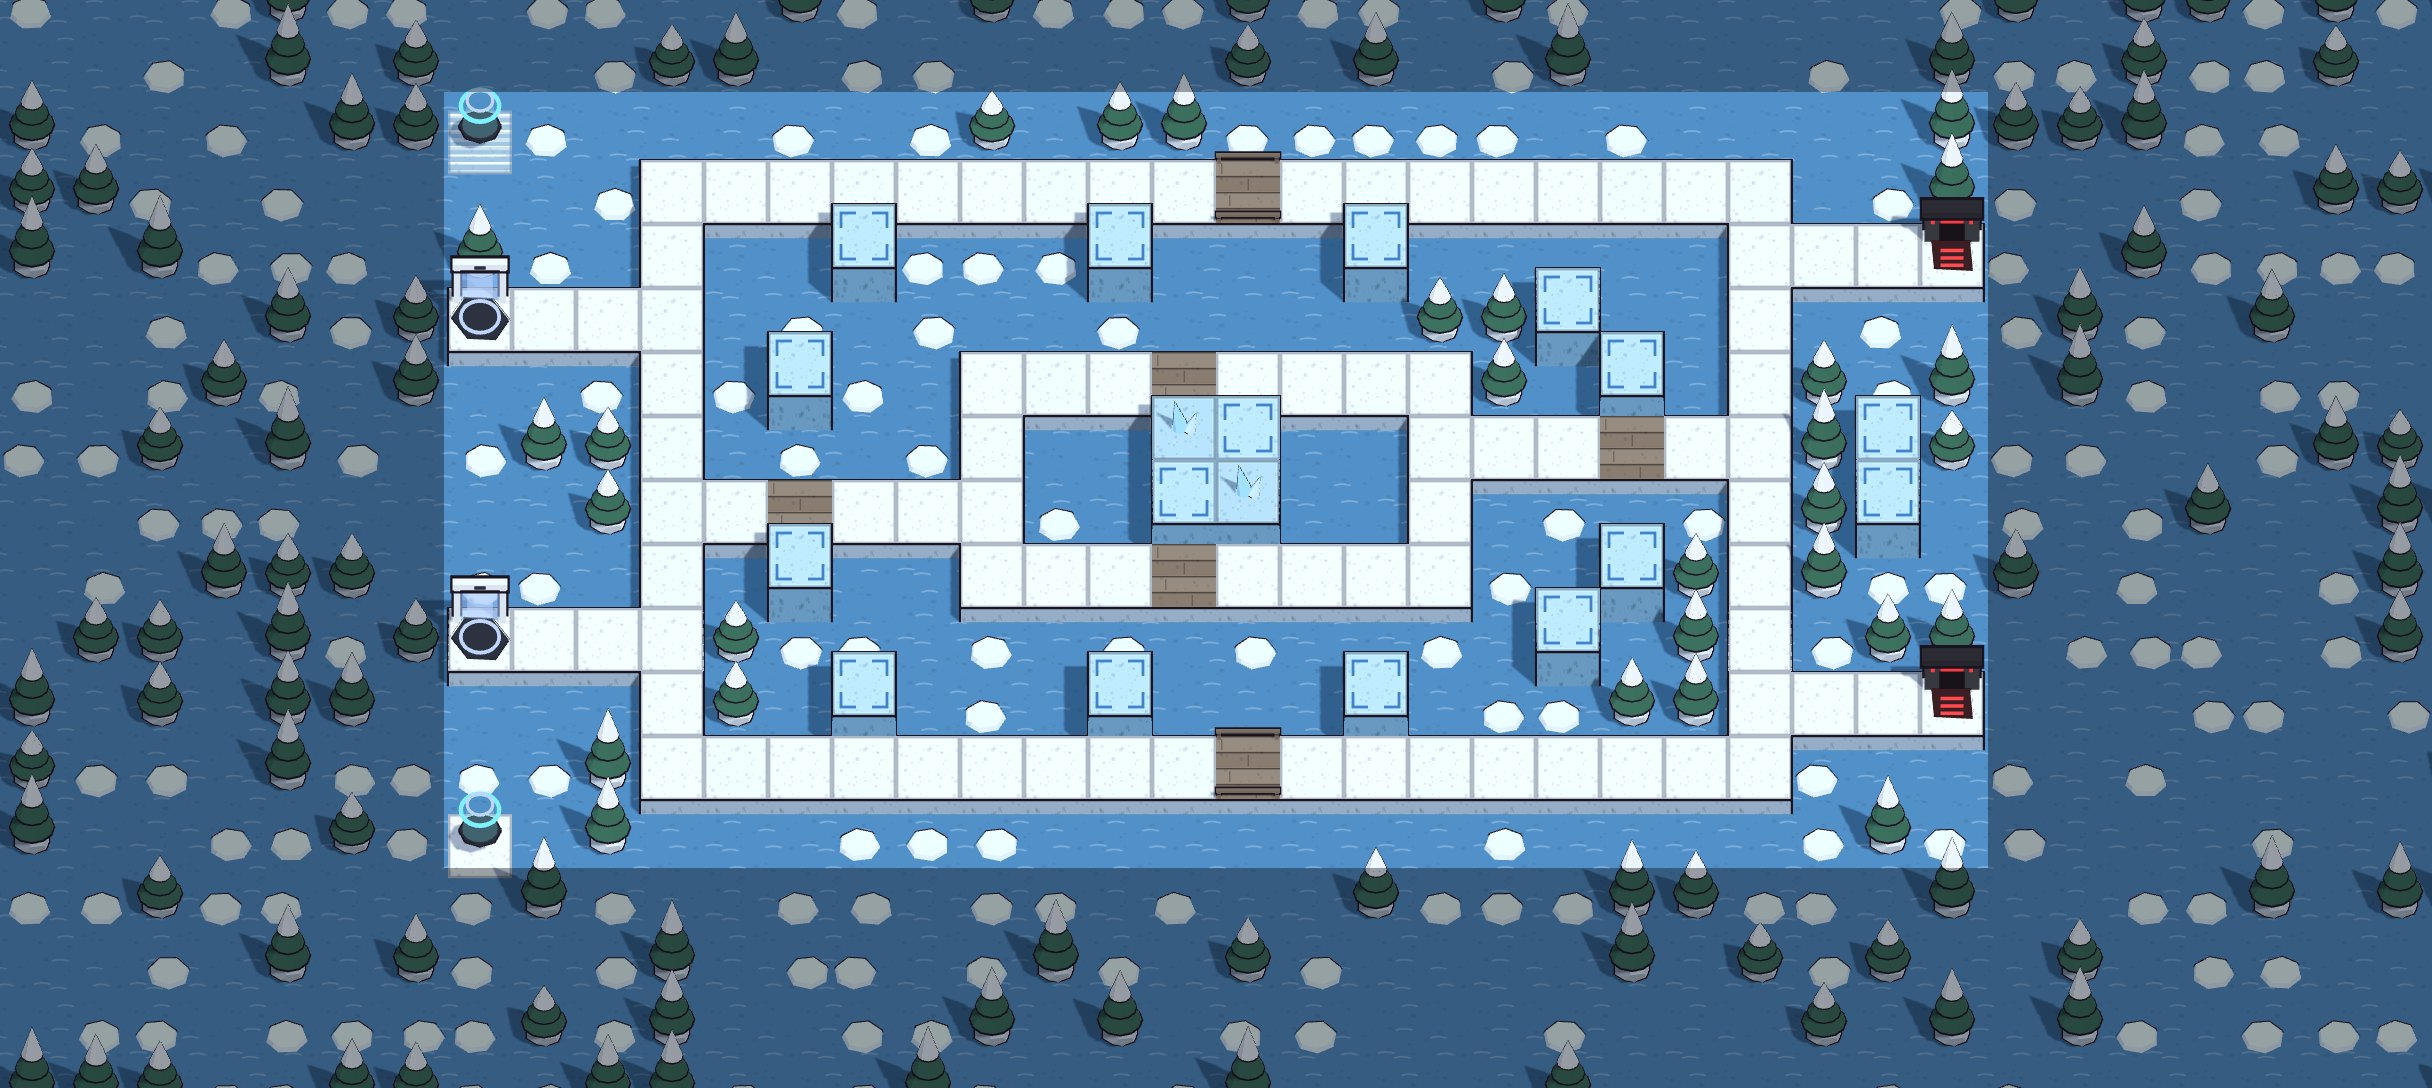
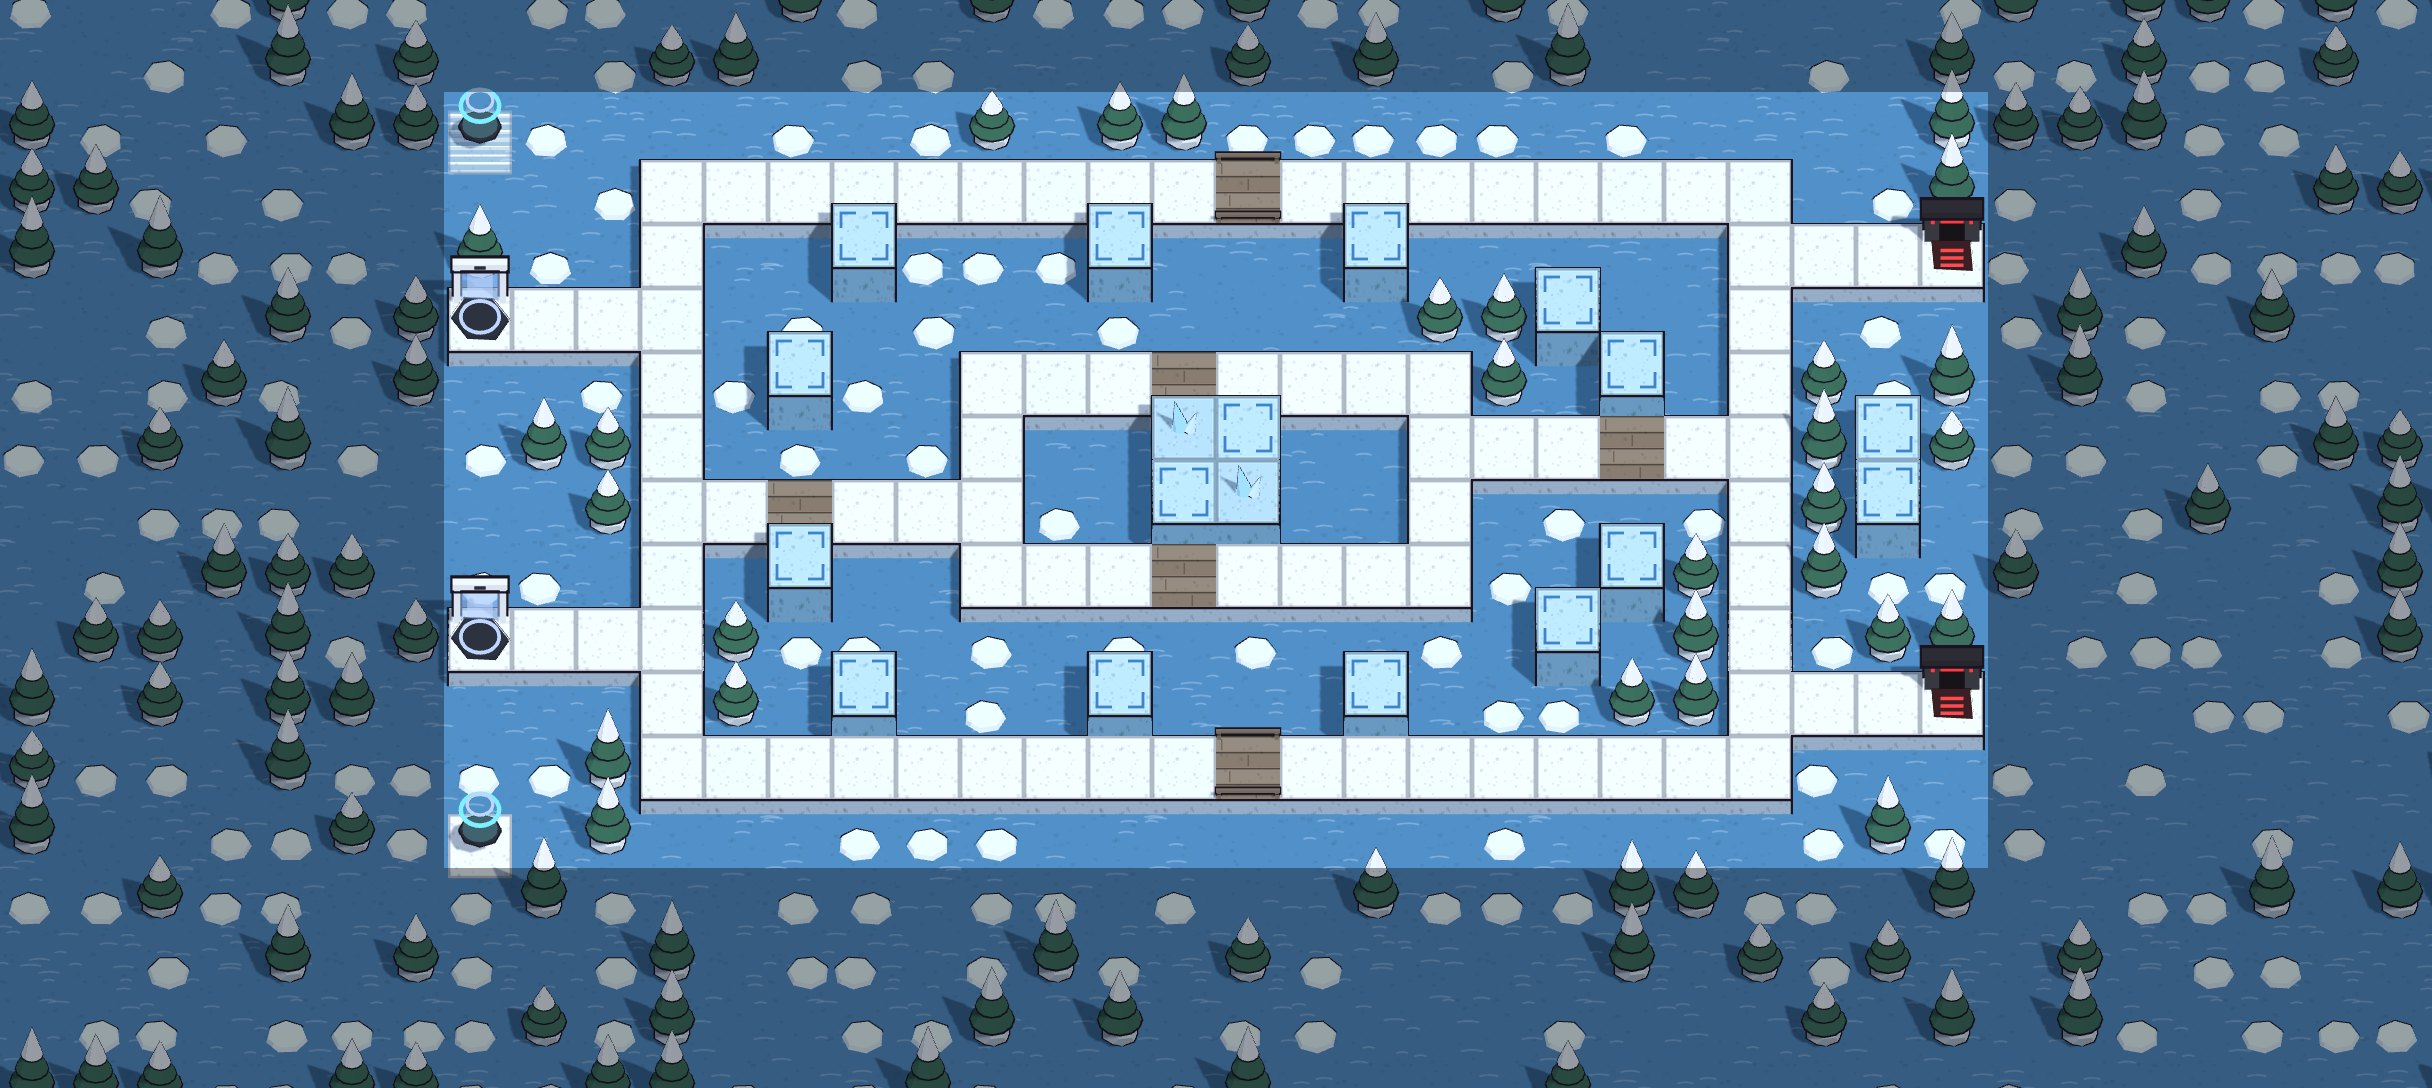
Phone polish: Android back button, auto-pause, keep screen on, vibration, smoother liquids
- @capacitor/app back button (Escape on desktop): each scene decides what
  back means; battle cancels a placement, closes or opens the pause menu
  and leaves from the result screen; menus go to the previous screen; the
  start screen sends the app to the background instead of closing it
- Battles pause when the app goes to the background
- FLAG_KEEP_SCREEN_ON while the game is open
- Short vibration when a life is lost (manual play); VIBRATE permission,
  privacy page updated
- Water and lava use a larger, seamlessly wrapping texture: no more visible
  repeating pattern on the nine liquid stages (maps re-rendered)

Claude-Session: https://claude.ai/code/session_016P3v3LJotQhvd3r9NjYkKw

diff --git a/tools/models3d/map3d.js b/tools/models3d/map3d.js
@@ -35,7 +35,12 @@ const texCache = new Map();
 function tex(kind, base, accent = '#000000') {
   const key = kind + base + accent;
   if (texCache.has(key)) return texCache.get(key);
-  const S = 128;
+  // Liquids cover large areas: a bigger, seamlessly wrapping texture so the pattern does not repeat visibly.
+  const liquid = kind === 'water' || kind === 'lava';
+  const S = liquid ? 512 : 128;
+  const wrap = (draw) => {
+    for (const ox of [-S, 0, S]) for (const oy of [-S, 0, S]) { g.save(); g.translate(ox, oy); draw(); g.restore(); }
+  };
   const cv = document.createElement('canvas');
   cv.width = cv.height = S;
   const g = cv.getContext('2d');
@@ -123,16 +128,18 @@ function tex(kind, base, accent = '#000000') {
     speckle(120, 0.16, false);
     speckle(60, 0.12, true);
   } else if (kind === 'water') {
-    speckle(30, 0.08, false);
+    speckle(480, 0.08, false);
+    const waves = Array.from({ length: 96 }, () => [rnd() * S, rnd() * S, 14 + rnd() * 16]);
     g.strokeStyle = 'rgba(255,255,255,0.25)';
     g.lineWidth = 3;
-    for (let i = 0; i < 6; i++) {
-      const x = rnd() * S, y = rnd() * S;
-      g.beginPath();
-      g.moveTo(x, y);
-      g.quadraticCurveTo(x + 10, y - 5, x + 22, y);
-      g.stroke();
-    }
+    wrap(() => {
+      for (const [x, y, len] of waves) {
+        g.beginPath();
+        g.moveTo(x, y);
+        g.quadraticCurveTo(x + len / 2, y - 5, x + len, y);
+        g.stroke();
+      }
+    });
   } else if (kind === 'stars') {
     g.fillStyle = base;
     g.fillRect(0, 0, S, S);
@@ -149,22 +156,26 @@ function tex(kind, base, accent = '#000000') {
       g.fill();
     }
   } else if (kind === 'lava') {
-    g.fillStyle = 'rgba(40,10,6,0.55)';
-    for (let i = 0; i < 9; i++) {
-      g.beginPath();
-      g.ellipse(rnd() * S, rnd() * S, 8 + rnd() * 18, 5 + rnd() * 10, rnd() * 3, 0, Math.PI * 2);
-      g.fill();
-    }
-    g.strokeStyle = '#ffb040';
-    g.lineWidth = 2.5;
-    for (let i = 0; i < 8; i++) {
-      g.beginPath();
-      const x = rnd() * S, y = rnd() * S;
-      g.moveTo(x, y);
-      g.lineTo(x + rnd() * 30 - 15, y + rnd() * 30 - 15);
-      g.lineTo(x + rnd() * 50 - 25, y + rnd() * 50 - 25);
-      g.stroke();
-    }
+    // Dark cooling crust of varied sizes and glowing cracks, wrapped across the edges.
+    const crust = Array.from({ length: 110 }, () => [rnd() * S, rnd() * S, 6 + rnd() * 26, 4 + rnd() * 14, rnd() * 3, 0.35 + rnd() * 0.3]);
+    const cracks = Array.from({ length: 120 }, () => [rnd() * S, rnd() * S, rnd() * 30 - 15, rnd() * 30 - 15, rnd() * 50 - 25, rnd() * 50 - 25]);
+    wrap(() => {
+      for (const [x, y, rx, ry, rot, a] of crust) {
+        g.fillStyle = `rgba(40,10,6,${a})`;
+        g.beginPath();
+        g.ellipse(x, y, rx, ry, rot, 0, Math.PI * 2);
+        g.fill();
+      }
+      g.strokeStyle = '#ffb040';
+      g.lineWidth = 2.5;
+      for (const [x, y, ax, ay, bx, by] of cracks) {
+        g.beginPath();
+        g.moveTo(x, y);
+        g.lineTo(x + ax, y + ay);
+        g.lineTo(x + bx, y + by);
+        g.stroke();
+      }
+    });
   } else if (kind === 'cracks') {
     speckle(70, 0.14, false);
     g.strokeStyle = accent;
@@ -300,7 +311,7 @@ export function buildMap(level) {
   if (B.wall === 'liquid') {
     const t = tex(B.liquidTex, B.liquid);
     t.wrapS = t.wrapT = THREE.RepeatWrapping;
-    t.repeat.set((x1 - x0) / 1.5, ((y1 - y0) * D) / 1.5);
+    t.repeat.set((x1 - x0) / 6, ((y1 - y0) * D) / 6);
     const m = B.liquidGlow ? new THREE.MeshBasicMaterial({ color: '#ffffff', map: t }) : tmat('#ffffff', t);
     const plane = new THREE.Mesh(new THREE.PlaneGeometry(x1 - x0, (y1 - y0) * D), m);
     plane.rotation.x = -Math.PI / 2;

diff --git a/src/game/scenes/BattleScene.ts b/src/game/scenes/BattleScene.ts
@@ -196,9 +196,15 @@ export class BattleScene extends Phaser.Scene {
     const toMap = (o: Phaser.GameObjects.GameObject) => this.uiCam.ignore(o);
     this.events.on(Phaser.Scenes.Events.ADDED_TO_SCENE, toMap);
     this.pinch = null;
+    // Leaving the app mid-battle (call, home button) opens the pause menu.
+    const onHidden = () => {
+      if (document.hidden && !this.resultShown && !this.menuPaused && this.battle.result === 'running') this.openPause();
+    };
+    document.addEventListener('visibilitychange', onHidden);
     this.events.once('shutdown', () => {
       this.anims.globalTimeScale = 1;
       this.events.off(Phaser.Scenes.Events.ADDED_TO_SCENE, toMap);
+      document.removeEventListener('visibilitychange', onHidden);
     });
     this.battle = new Battle(this.level);
     this.recorder = new ReplayRecorder(this.battle);
@@ -615,6 +621,24 @@ export class BattleScene extends Phaser.Scene {
     this.state = { kind: 'idle' };
   }
 
+  /** Android back / Escape: close what is open, else pause; from the result screen, leave. */
+  onBack(): void {
+    if (this.resultShown) {
+      this.scene.start('Menu');
+      return;
+    }
+    if (this.menuPaused) {
+      this.closePause();
+      return;
+    }
+    if (this.state.kind !== 'idle') {
+      this.ghost.setVisible(false);
+      this.cancelPlacement();
+      return;
+    }
+    this.openPause();
+  }
+
   // ---------------------------------------------------------------------------
   // HUD, deck and panel
 
@@ -1006,6 +1030,7 @@ export class BattleScene extends Phaser.Scene {
         case 'leak': {
           this.leakedUids.add(ev.uid);
           audio.play('leak');
+          if (this.mode === 'manual') navigator.vibrate?.(90);
           this.cameras.main.shake(120, 0.004);
           this.cameras.main.flash(120, 120, 20, 20);
           break;

diff --git a/docs/play-console/privacidade.html b/docs/play-console/privacidade.html
@@ -80,7 +80,7 @@
       <li>Não envia dados para servidores da Zuri Tech Lab nem de terceiros.</li>
     </ul>
     <h3>Permissões</h3>
-    <p>A app declara a permissão de acesso à Internet porque faz parte da plataforma usada para a construir (Capacitor). O jogo não a usa para enviar dados: funciona sem ligação.</p>
+    <p>A app declara duas permissões: <strong>vibração</strong>, para um toque curto quando perdes uma vida, e <strong>acesso à Internet</strong>, porque faz parte da plataforma usada para a construir (Capacitor). O jogo não usa a Internet para enviar dados: funciona sem ligação.</p>
     <h3>Apagar os teus dados</h3>
     <p>Para apagar o progresso, desinstala a app ou limpa os dados dela nas definições do Android (Definições → Apps → Muxima → Armazenamento → Limpar dados).</p>
     <h3>Crianças</h3>
@@ -103,7 +103,7 @@
       <li>It sends no data to Zuri Tech Lab or third-party servers.</li>
     </ul>
     <h3>Permissions</h3>
-    <p>The app declares the Internet permission because it is part of the framework it is built with (Capacitor). The game does not use it to send data and works offline.</p>
+    <p>The app declares two permissions: <strong>vibration</strong>, for a short buzz when you lose a life, and <strong>Internet access</strong>, because it is part of the framework it is built with (Capacitor). The game does not use the Internet to send data and works offline.</p>
     <h3>Deleting your data</h3>
     <p>To delete your progress, uninstall the app or clear its data in Android settings (Settings → Apps → Muxima → Storage → Clear data).</p>
     <h3>Children</h3>

diff --git a/src/game/nav.ts b/src/game/nav.ts
@@ -1,0 +1,28 @@
+// Android back button (and Escape on desktop): each scene may define onBack() to decide what
+// "back" means there (close a panel, pause the battle, go to the previous screen). Without a
+// handler the app is sent to the background instead of being closed abruptly.
+import { App } from '@capacitor/app';
+import { Capacitor } from '@capacitor/core';
+import type Phaser from 'phaser';
+
+interface BackAware {
+  onBack?: () => void;
+}
+
+function back(game: Phaser.Game): void {
+  const scene = game.scene.getScenes(true).find((s) => s.sys.settings.key !== 'Boot') as (Phaser.Scene & BackAware) | undefined;
+  if (scene?.onBack) scene.onBack();
+  else if (Capacitor.isNativePlatform()) void App.minimizeApp();
+}
+
+export function initBackButton(game: Phaser.Game): void {
+  if (Capacitor.isNativePlatform()) void App.addListener('backButton', () => back(game));
+  window.addEventListener('keydown', (e) => {
+    if (e.key === 'Escape') back(game);
+  });
+}
+
+/** Leaves the app (to the home screen) from the main menu. */
+export function minimizeApp(): void {
+  if (Capacitor.isNativePlatform()) void App.minimizeApp();
+}

diff --git a/src/main.ts b/src/main.ts
@@ -3,6 +3,7 @@ import '@fontsource/press-start-2p/latin-ext-400.css';
 import Phaser from 'phaser';
 import { COLORS, GAME_H, GAME_W, ZOOM } from './config';
 import { audio } from './game/audio';
+import { initBackButton } from './game/nav';
 import { BattleScene } from './game/scenes/BattleScene';
 import { BootScene } from './game/scenes/BootScene';
 import { HomeScene } from './game/scenes/HomeScene';
@@ -17,7 +18,7 @@ async function start(): Promise<void> {
     // Fallback font is acceptable.
   }
 
-  new Phaser.Game({
+  const game = new Phaser.Game({
     type: Phaser.AUTO,
     parent: 'game',
     width: GAME_W * ZOOM,
@@ -32,6 +33,7 @@ async function start(): Promise<void> {
     input: { activePointers: 2 },
     scene: [BootScene, HomeScene, MenuScene, SquadScene, BattleScene],
   });
+  initBackButton(game);
 }
 
 // Audio may only start after a user gesture (browser and WebView rule).

diff --git a/src/game/scenes/HomeScene.ts b/src/game/scenes/HomeScene.ts
@@ -7,6 +7,7 @@ import { loadPortrait, PORTRAIT, unitMeta } from '../art';
 import { isUnlocked, operatorProgress, playerSquad, totalStars } from '../progress';
 import { loadSave, session, writeSave } from '../save';
 import { audio } from '../audio';
+import { minimizeApp } from '../nav';
 import { Button, slantPanel, soundButtons, tapZone, text } from '../ui/widgets';
 
 /** Main menu: a clean title screen with the squad leader in 3D and two big entries. */
@@ -89,6 +90,10 @@ export class HomeScene extends Phaser.Scene {
       writeSave((s) => (s.lang = lang));
       this.scene.restart();
     });
+  }
+
+  onBack(): void {
+    minimizeApp();
   }
 
   private feature(squad: readonly string[], index: number): void {

diff --git a/src/game/scenes/MenuScene.ts b/src/game/scenes/MenuScene.ts
@@ -59,6 +59,10 @@ export class MenuScene extends Phaser.Scene {
     this.showChapter(LEVELS.find((l) => l.id === session.selectedLevel)!.chapter);
   }
 
+  onBack(): void {
+    this.scene.start('Home');
+  }
+
   private showChapter(chapter: number): void {
     for (const o of this.chapterObjs) o.destroy();
     this.chapterObjs = [];

diff --git a/src/game/scenes/SquadScene.ts b/src/game/scenes/SquadScene.ts
@@ -63,6 +63,10 @@ export class SquadScene extends Phaser.Scene {
     this.refresh();
   }
 
+  onBack(): void {
+    this.scene.start(this.level ? 'Menu' : 'Home');
+  }
+
   private squad(): string[] {
     return playerSquad(loadSave().squad);
   }

diff --git a/android/app/src/main/java/com/zuritechlab/muxima/MainActivity.java b/android/app/src/main/java/com/zuritechlab/muxima/MainActivity.java
@@ -19,6 +19,8 @@ public class MainActivity extends BridgeActivity {
             attrs.layoutInDisplayCutoutMode = WindowManager.LayoutParams.LAYOUT_IN_DISPLAY_CUTOUT_MODE_SHORT_EDGES;
             getWindow().setAttributes(attrs);
         }
+        // A game: keep the screen on while it is open.
+        getWindow().addFlags(WindowManager.LayoutParams.FLAG_KEEP_SCREEN_ON);
         enterImmersiveMode();
     }
 

diff --git a/README.md b/README.md
@@ -20,6 +20,8 @@ Feito com **Phaser 3 + TypeScript + Vite** e empacotado para Android (**.aab** p
   nível 30, com mais HP, ATK e DEF. Os estágios estão verificados no nível 1, por isso subir de nível só facilita.
 - **Som e música**: efeitos para cada ação (golpes, tiros, explosões, curas, skills, vidas perdidas) e música com
   ritmo de inspiração angolana, tudo gerado no jogo (sem ficheiros de áudio). Liga/desliga no ecrã inicial e na pausa.
+- **Feito para o celular**: o botão voltar do Android volta ao ecrã anterior (em batalha abre a pausa), a batalha
+  pausa sozinha se saíres da app, o ecrã não se apaga durante o jogo e o telemóvel vibra quando perdes uma vida.
 - **Tutorial no 1-1**: dicas passo a passo na primeira vez; a batalha espera até colocares o primeiro operador.
 - **Ecrã inteiro no celular**: a largura do jogo adapta-se ao formato do ecrã (16:9 até 2.4:1, ex. 20:9 no A21s).
 
